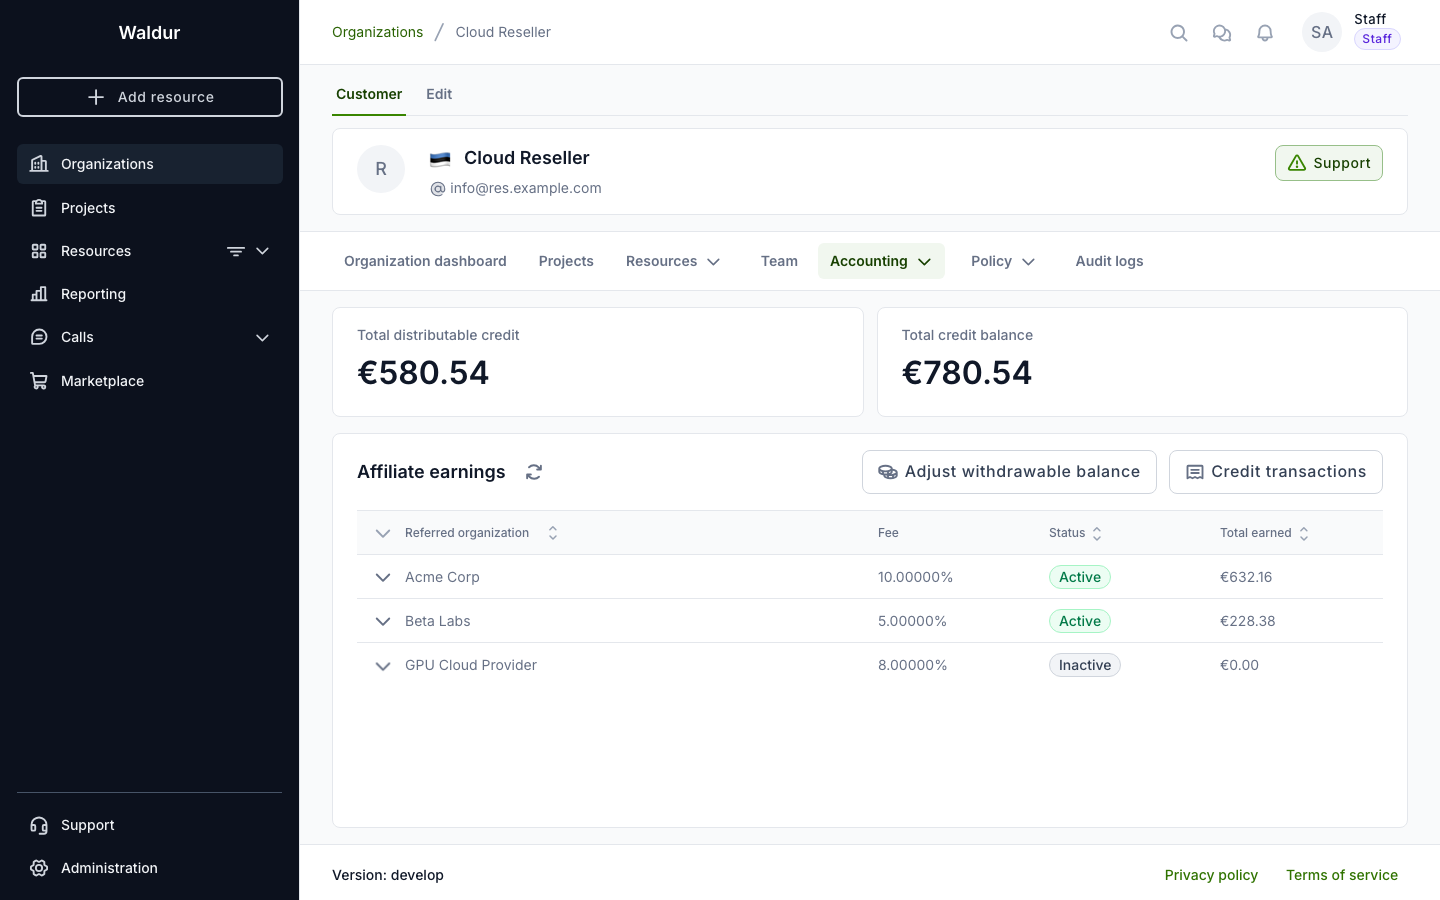
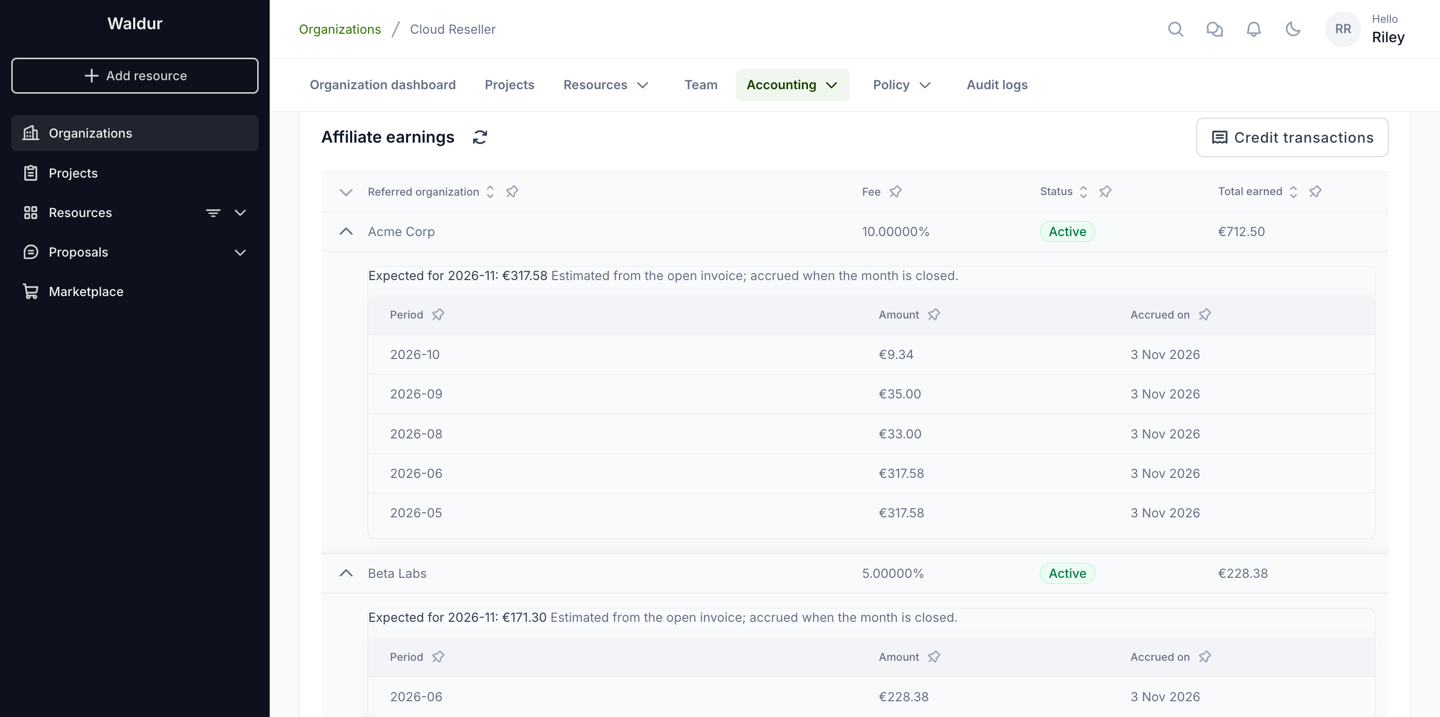
Describe granted, prepaid and earned credit and the new affiliate fee base [waldur/waldur-mastermind#895]

diff --git a/docs/user-guide/staff-users/credit-management-staff.md b/docs/user-guide/staff-users/credit-management-staff.md
@@ -18,19 +18,22 @@ To assign a credit, click **Add**. A dialog opens with these fields.
 2. Select the offerings the credit may be spent on. **Leave this empty to allow all offerings** —
    an empty list means unrestricted, not "none". Cost on any other offering is invoiced
    normally and is never drawn from the credit.
-3. Set the credit value. This is the total value that the organization will be able to spent.
-4. Optionally set an end date. On that date the remaining credit is set to 0. It must be the
-   first day of a month.
+3. Set the credit value. This is the total value that the organization will be able to spend,
+   recorded as granted credit (see below).
+4. Optionally set an end date. It must be the first day of a month. At the first monthly
+   billing run after that date, the remaining granted credit is set to 0, and minimal
+   consumption is no longer charged; prepaid and earned credit (see below) do not expire.
 5. Minimal consumption logic defines, how minimal monthly consumption is calculated:
 
     - Fixed means that it is possible to define minimal monthly value and overall credit will be reduced by the monthly value, even if the usage has been less than minimal consumption.
-    - Linear means that by setting the end date, the total value of the credit will be divided evenly across the period until the end date and the overall value will be reduced monthly by the calculated value even if the consumption is less than the calculated value.
+    - Linear means that by setting the end date, the granted credit will be divided evenly across the period until the end date and the credit will be reduced monthly by the calculated value even if the consumption is less than the calculated value.
 
 6. **Expected consumption** is the monthly amount for the fixed logic. It is only charged as a
    minimum when **Apply as minimal consumption** is on. The **Grace coefficient** lowers that
    minimum by a percentage: with an expected consumption of 1 000 and a grace coefficient of
    10 %, at least 900 is deducted each month. In the month of the end date, the full expected
-   consumption is deducted.
+   consumption is deducted. The minimum is deducted only from granted credit, so it is
+   capped by what is left of it; prepaid and earned credit (see below) are never taken by it.
 7. If all set, click **Create**.
 
 !!! warning
@@ -39,6 +42,73 @@ To assign a credit, click **Add**. A dialog opens with these fields.
     credit simply never covers them. Because that cost is never compensated, it counts
     towards [cost policies](../customer-organization/cost-and-usage-policies.md)
     immediately, while the credit balance still looks untouched.
+
+## Granted, prepaid and earned credit
+
+An organization's credit is one balance, made of three kinds of money:
+
+- **Granted** — credit allocated by staff, as in the dialog above. It is a discount: it
+  expires on the end date and does not count towards an
+  [affiliate fee](affiliate-program.md).
+- **Prepaid** — a customer's prepayment, for example a bank transfer, recorded by staff as a
+  [top-up](#recording-a-prepayment) on the organization's credit. Waldur shows it as **Paid
+  credit**. It is the customer's money: it never expires, and invoices paid from it still earn
+  the affiliate fee.
+- **Earned** — affiliate fees and other earnings. Only this part is withdrawable.
+
+Usage spends granted credit first, then prepaid, then earned. Top-ups and reclassifications
+are recorded in the credit-transaction ledger and the organization's event log with their
+comment. Editing the total credit can lower it by no more than the granted credit left:
+prepaid credit is lowered by reversing a top-up, and earned credit by
+[adjusting the withdrawable balance](affiliate-program.md#adjusting-the-withdrawable-balance).
+
+### Viewing the split
+
+In the **Credits** list, expand an organization's row to see its **Paid credit**,
+**Granted credit** and **Withdrawable balance**. The row's **Actions** menu holds
+**Top up** and **Reclassify as paid credit** next to **Edit**, as in the list at the top of this
+page.
+
+The same figures are on the organization's own page: open the organization, select the
+**Edit** tab, then **Credit management**. Staff have a button next to each figure: **+** next
+to **Paid credit** tops it up, **⇄** next to **Granted credit** reclassifies it, and the
+pencil next to **Withdrawable balance** adjusts it.
+
+![Paid, granted and withdrawable credit of an organization](../img/credit-lots-panel.png)
+
+### Recording a prepayment
+
+Select **Top up** in the row's **Actions** menu, or click **+** next to **Paid credit**. An
+organization without a credit has neither: first create one with the value 0, then top it up.
+
+![Top up credit dialog](../img/credit-top-up.png)
+
+1. **Amount** — the prepayment received. The dialog shows the current paid credit and what it
+   becomes. A negative amount reverses a prepayment recorded by mistake, for example a bounced
+   payment; it cannot be larger than the paid credit.
+2. **Payment reference** — optionally, the bank transfer or payment identifier. It is kept in
+   the credit transaction.
+3. **Comment** — what the prepayment is for.
+
+Click **Top up**. The total credit grows by the amount.
+
+### Marking granted credit as paid
+
+A prepayment recorded earlier as an ordinary grant is granted credit: it expires and earns
+no affiliate fee. To correct it, select **Reclassify as paid credit** in the row's **Actions**
+menu, or click **⇄** next to **Granted credit**. Enter the amount and a comment, then click
+**Reclassify**. The amount moves from granted to paid credit, and the total stays the same.
+
+![Reclassify as paid credit dialog](../img/credit-reclassify.png)
+
+The amount cannot exceed the granted credit left. When none is left, the action is
+disabled.
+
+!!! note
+    Through the API, a top-up is `POST /api/customer-credits/{uuid}/top_up/` and a
+    reclassification is `POST /api/customer-credits/{uuid}/reclassify/`, each with an `amount`
+    and a `comment`; a top-up also takes an optional `payment_reference`. Called with a
+    personal access token, they need the token's **STAFF.ACCESS** scope.
 
 ## Paying earlier invoices
 

diff --git a/docs/user-guide/customer-organization/affiliate-earnings.md b/docs/user-guide/customer-organization/affiliate-earnings.md
@@ -16,11 +16,13 @@ percentage, whether the link is active, and the total earned.
 The page shows:
 
 - **Total distributable credit** and **Total credit balance** — summary cards.
-  The distributable credit is the **withdrawable balance**: the part of your
-  credit that came from earnings, as opposed to promotional credit granted by
-  staff.
-- **Affiliate links** — one row per link; expand a row to see its **monthly
-  accruals** (one row per fee, with the invoice period, amount and date).
+  The distributable credit is the **withdrawable balance**: what is left of
+  the part of your credit that came from earnings, as opposed to credit
+  allocated by staff or prepayments. Your organization's usage spends
+  granted and prepaid credit before earnings, and earnings do not expire.
+- **Affiliate links** — one row per link; expand a row to see the fee expected
+  for the current month and the **monthly accruals** (one row per fee, with the
+  invoice period, amount and date).
 - **Credit transactions** — a button that opens the full ledger of how your
   credit changed over time (earned fees, staff adjustments, payouts and more)
   with the type, amount, comment and date of each entry.
@@ -30,15 +32,23 @@ The page shows:
     referred organization's name. It never exposes what the referred
     organization purchased.
 
+The **Expected for** line above the accruals is the fee the current month is
+expected to earn. It is estimated from the referred organization's open invoice:
+its price after the estimated volume discounts (see below) and after the
+credit the month is expected to use, except prepaid credit, which still earns
+the fee. It changes as the month goes
+on, and becomes an accrual when the month is closed. The line is not shown when
+the link was not active on the first day of the month, or when the referred
+organization has no open invoice.
+
 Earned fees are added to your organization's credit. The **Adjust withdrawable
 balance** button on this page is available to staff only.
 
 ## Volume discounts on invoices
 
-When your organization qualifies for a volume discount, it is applied when the
-invoice is finalized and appears as a separate discount line paired with each
-discounted component. Open an invoice from **Accounting → Invoices** and expand
-a resource to see the breakdown.
+When your organization qualifies for a volume discount, it appears as a
+separate discount line paired with each discounted component. Open an invoice
+from **Accounting → Invoices** and expand a resource to see the breakdown.
 
 ![Volume discount lines on an invoice](../img/volume-discount-invoice.png)
 
@@ -48,6 +58,19 @@ under the component it applies to (for example, *↳ Volume discount — CPU Cor
 formula, and the usage the discount was based on. The discount is distributed
 across the individual components, so every project's share of the saving is
 reflected in its own line items.
+
+### Estimated discounts on the open invoice
+
+The current month's invoice shows the discount it is expected to get. Its
+discount lines are marked *estimated*, and the footer shows their sum as
+**Estimated volume discounts**, already included in the expected total.
+
+![Estimated volume discount lines on an open invoice](../img/volume-discount-open-invoice.png)
+
+The estimate is based on the usage so far. It is updated daily, and shortly
+after a resource is created, terminated, switched to another plan or has its
+limits changed, so it can move into a higher discount tier during the month.
+When the month closes, the invoice is finalized and the lines become final.
 
 !!! tip
     Depending on how the service provider configured the component, a discount

diff --git a/docs/user-guide/staff-users/affiliate-program.md b/docs/user-guide/staff-users/affiliate-program.md
@@ -30,8 +30,9 @@ Each link records:
 
 - **Referred organization** — the organization whose invoices generate the fee.
 - **Affiliate organization** — the organization that earns the fee.
-- **Fee %** — the percentage of each finalized invoice's net price (pre-tax,
-  post-compensation) paid to the affiliate.
+- **Fee %** — the percentage paid to the affiliate of each finalized invoice's
+  net price (pre-tax, after credit compensation), plus the part of that
+  compensation which the referred organization paid from prepaid credit.
 - **Active**, **Start date**, **End date** — control when the link accrues fees.
 - **Total earned** — the lifetime fee accrued through the link.
 
@@ -61,16 +62,21 @@ affiliate's balance.
 ### How fees accrue
 
 When an invoice is finalized at the end of the month, an affiliate fee is
-computed on its net price and added to the affiliate organization's credit
-balance. Accrual is idempotent — re-running finalization never pays a fee
+computed and added to the affiliate organization's credit balance. Credit that
+pays the invoice counts towards the fee only when it was prepaid by the
+referred organization: a prepayment is revenue, while granted credit is a
+discount and lowers the fee. See
+[granted, prepaid and earned credit](credit-management-staff.md#granted-prepaid-and-earned-credit). Accrual is idempotent — re-running finalization never pays a fee
 twice. Fees for a referred organization are only visible to the affiliate as an
 amount and period; the affiliate never sees the referred organization's invoice
 contents.
 
 ## Adjusting the withdrawable balance
 
-The **withdrawable balance** is the part of an organization's credit that came
-from earnings (such as affiliate fees) rather than promotional grants. Staff can
+The **withdrawable balance** is what is left of the part of an organization's
+credit that came from earnings (such as affiliate fees), rather than from
+grants or prepayments. Earnings spent on the organization's own
+usage are no longer withdrawable, and earned credit does not expire. Staff can
 adjust it manually — for example to record a negotiated top-up, a payout or a
 clawback.
 
@@ -87,7 +93,7 @@ the total credit value by the same amount.
 
 !!! note
     A reduction cannot exceed the current withdrawable balance — a payout can
-    only draw down earned credit, never staff-granted promotional credit.
+    only draw down earned credit, never granted credit.
 
 Click **Credit transactions** on the same page to see the full ledger — every
 change to the credit value with its type, amount, comment and date. It is

diff --git a/docs/user-guide/customer-organization/credit-management.md b/docs/user-guide/customer-organization/credit-management.md
@@ -23,7 +23,9 @@ To allocate credit to a project, click **Add**. A dialog opens with these fields
 2. **Allocate credit** - the amount of credit. The sum of all project credits cannot exceed the
    organization's credit; the dialog shows how much is available.
 3. **End date** - optional. On that date the remaining credit is set to 0. It must be the first
-   day of a month.
+   day of a month. Prepaid and earned credit of the organization outlast its own end date, but
+   a project whose credit has expired cannot draw on them. Give the project credit a new amount
+   and end date, or delete it, for the project to use them.
 4. **Minimal consumption logic**, **Expected consumption**, **Grace coefficient** and **Apply as
    minimal consumption** - how much the credit is reduced each month at least, even if the
    project uses less. They work as for organization credits, see
